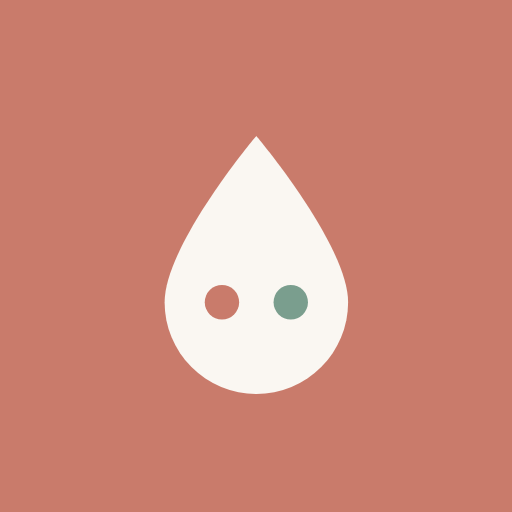
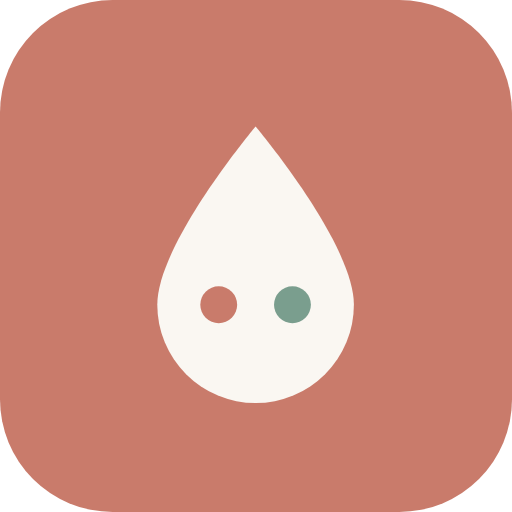
Tétée : icônes d'installation corrigées (#15)
* Ajoute l'appli de suivi des tétées (PWA Android, synchro entre deux téléphones)

Chrono par sein G/D avec pause rot, biberons, couches, historique modifiable,
stats (jour, 24 h, 7 jours), mode une main, mode nuit auto, hors ligne,
synchro temps réel via Firebase Firestore avec lien d'invitation.

Claude-Session: https://claude.ai/code/session_015mT6PUUWDuXjKmreyErZ1b

* Sécurise l'appli Tétée (audit)

- Corrige une faille XSS : toutes les données entrantes (synchro, import,
  stockage, lien d'invitation) sont validées par clean()
- Règles Firestore strictes avec validation des champs, suppression
  interdite (firestore.rules, testées dans l'émulateur)
- Liens d'invitation validés, projet Firebase affiché avant d'accepter
- CSP + JavaScript déplacé dans app.js, no-referrer
- Code famille de 16 caractères (80 bits) sans biais
- Corrige un plantage sur une tétée sans segment
- Rapport d'audit dans SECURITE.md

Claude-Session: https://claude.ai/code/session_015mT6PUUWDuXjKmreyErZ1b

* Tétée : corriger les temps à la volée et ajouter un oubli

- Pendant une tétée : « Corriger les temps », −5/−1/+1/+5 min par sein,
  synchronisé en direct
- Accueil : « Ajouter un oubli » (tétée, biberon, couche)
- Modification d'une tétée : boutons −/+ et heure de fin calculée

Claude-Session: https://claude.ai/code/session_015mT6PUUWDuXjKmreyErZ1b

* Tétée : synchro économe, mode nuit selon le soleil

- Synchro incrémentale : après la première synchro complète, seules les
[…]

diff --git a/tetee/sw.js b/tetee/sw.js
@@ -1,6 +1,6 @@
 // Cache de l'appli pour qu'elle marche sans réseau (la synchro reprend toute seule).
-const CACHE = 'tetee-v14';
-const SHELL = ['./', './index.html', './app.js', './sauvegarde-drive.gs', './manifest.webmanifest', './icon-192.png', './icon-512.png'];
+const CACHE = 'tetee-v15';
+const SHELL = ['./', './index.html', './app.js', './sauvegarde-drive.gs', './manifest.webmanifest', './icon-192.png', './icon-512.png', './maskable-192.png', './maskable-512.png'];
 
 self.addEventListener('install', e => {
   e.waitUntil(caches.open(CACHE).then(c => c.addAll(SHELL)).then(() => self.skipWaiting()));
